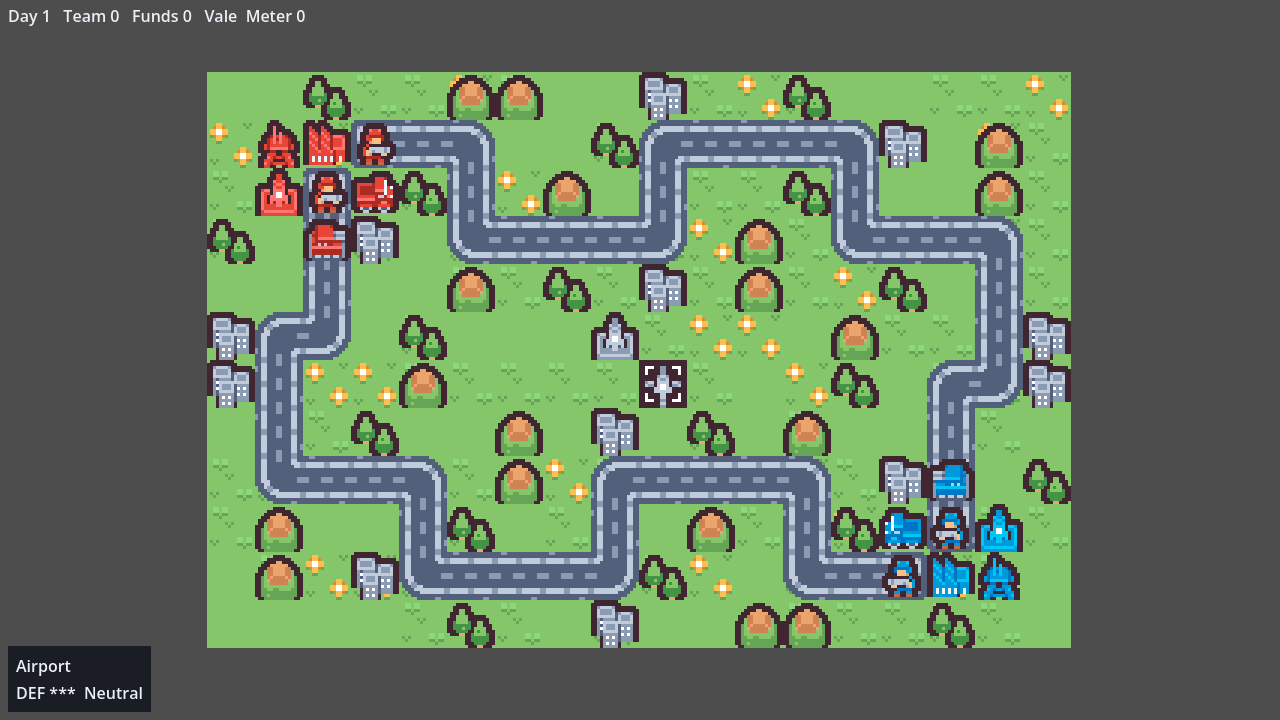
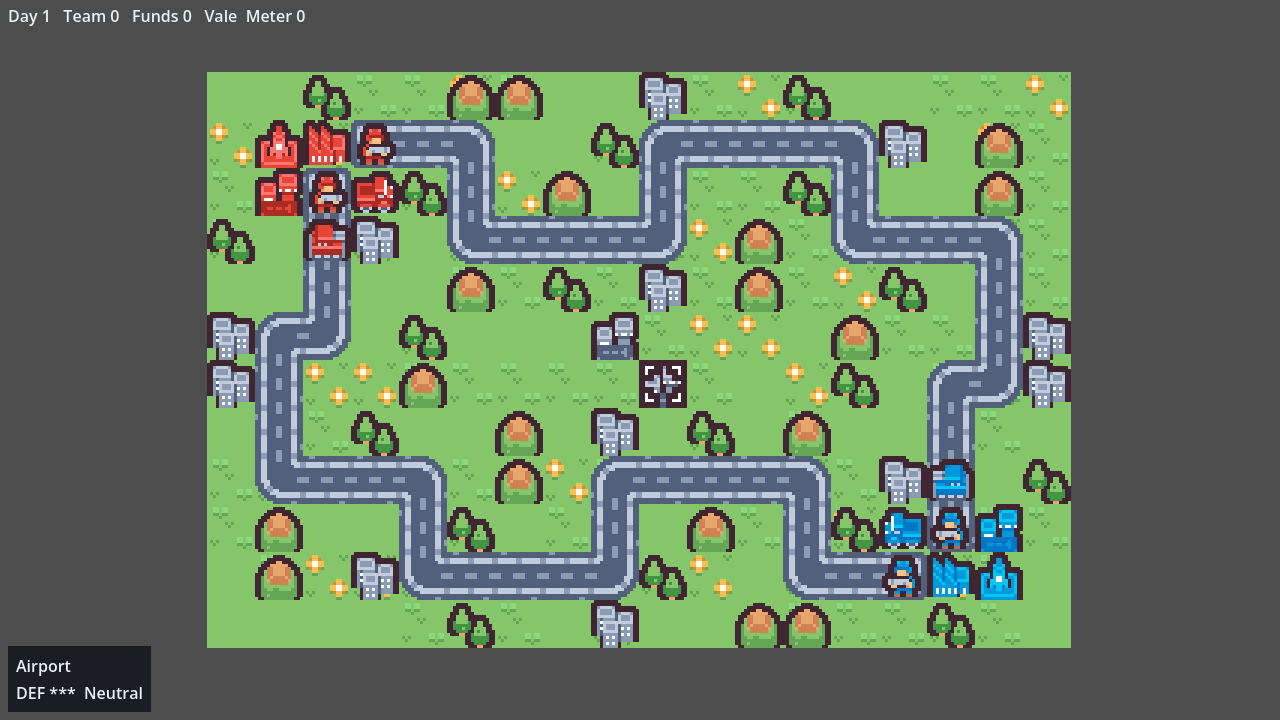
art: use the spired building for the HQ and the runway one for airports
The HQ was drawn with the pack's domed building and the airport with
the spired one, misread as a parked jet. The HQ now takes the spired
building (column 14) and the airport the control tower over a runway
beside it (column 15). README screenshots retaken.

diff --git a/README.md b/README.md
@@ -83,7 +83,7 @@ What confirming (**Enter** or a click) does depends on what is under the cursor:
 
 **Fog and weather.** Under fog of war you see only what your units and properties can see; forests hide ground units until you're next to them, and moving into an unseen enemy springs an ambush that ends the move. Random weather brings spells of rain or snow that slow movement.
 
-**Winning.** Each side has an HQ, the domed building in its home base. Capture the enemy HQ and you win on the spot. A player is also eliminated when they have no units left and nowhere to build more. When the match ends, a Victory or Defeat message appears; press **Enter** or click to go back to the new-match screen.
+**Winning.** Each side has an HQ, the spired building in its home base. Capture the enemy HQ and you win on the spot. A player is also eliminated when they have no units left and nowhere to build more. When the match ends, a Victory or Defeat message appears; press **Enter** or click to go back to the new-match screen.
 
 ## Development
 
